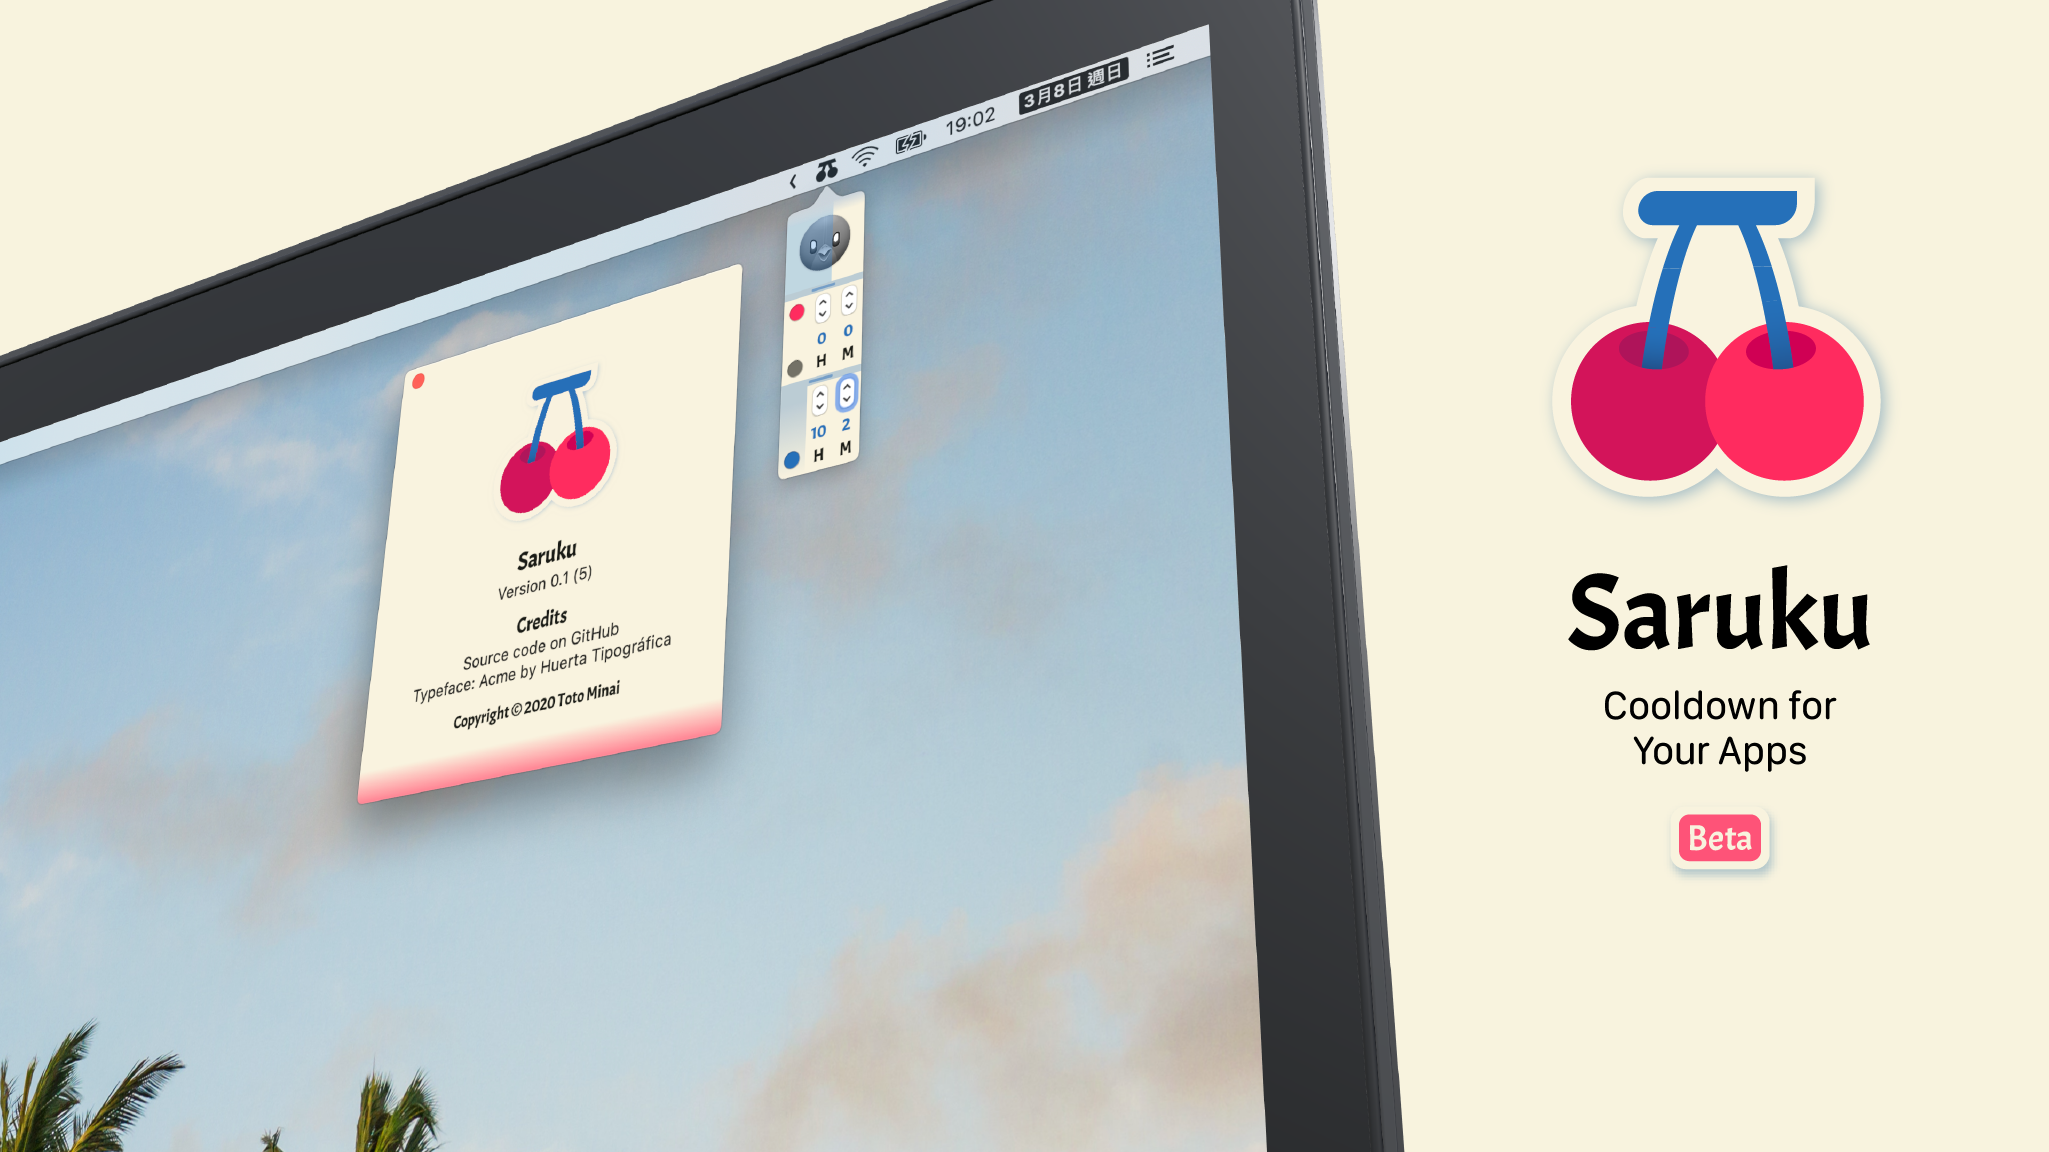
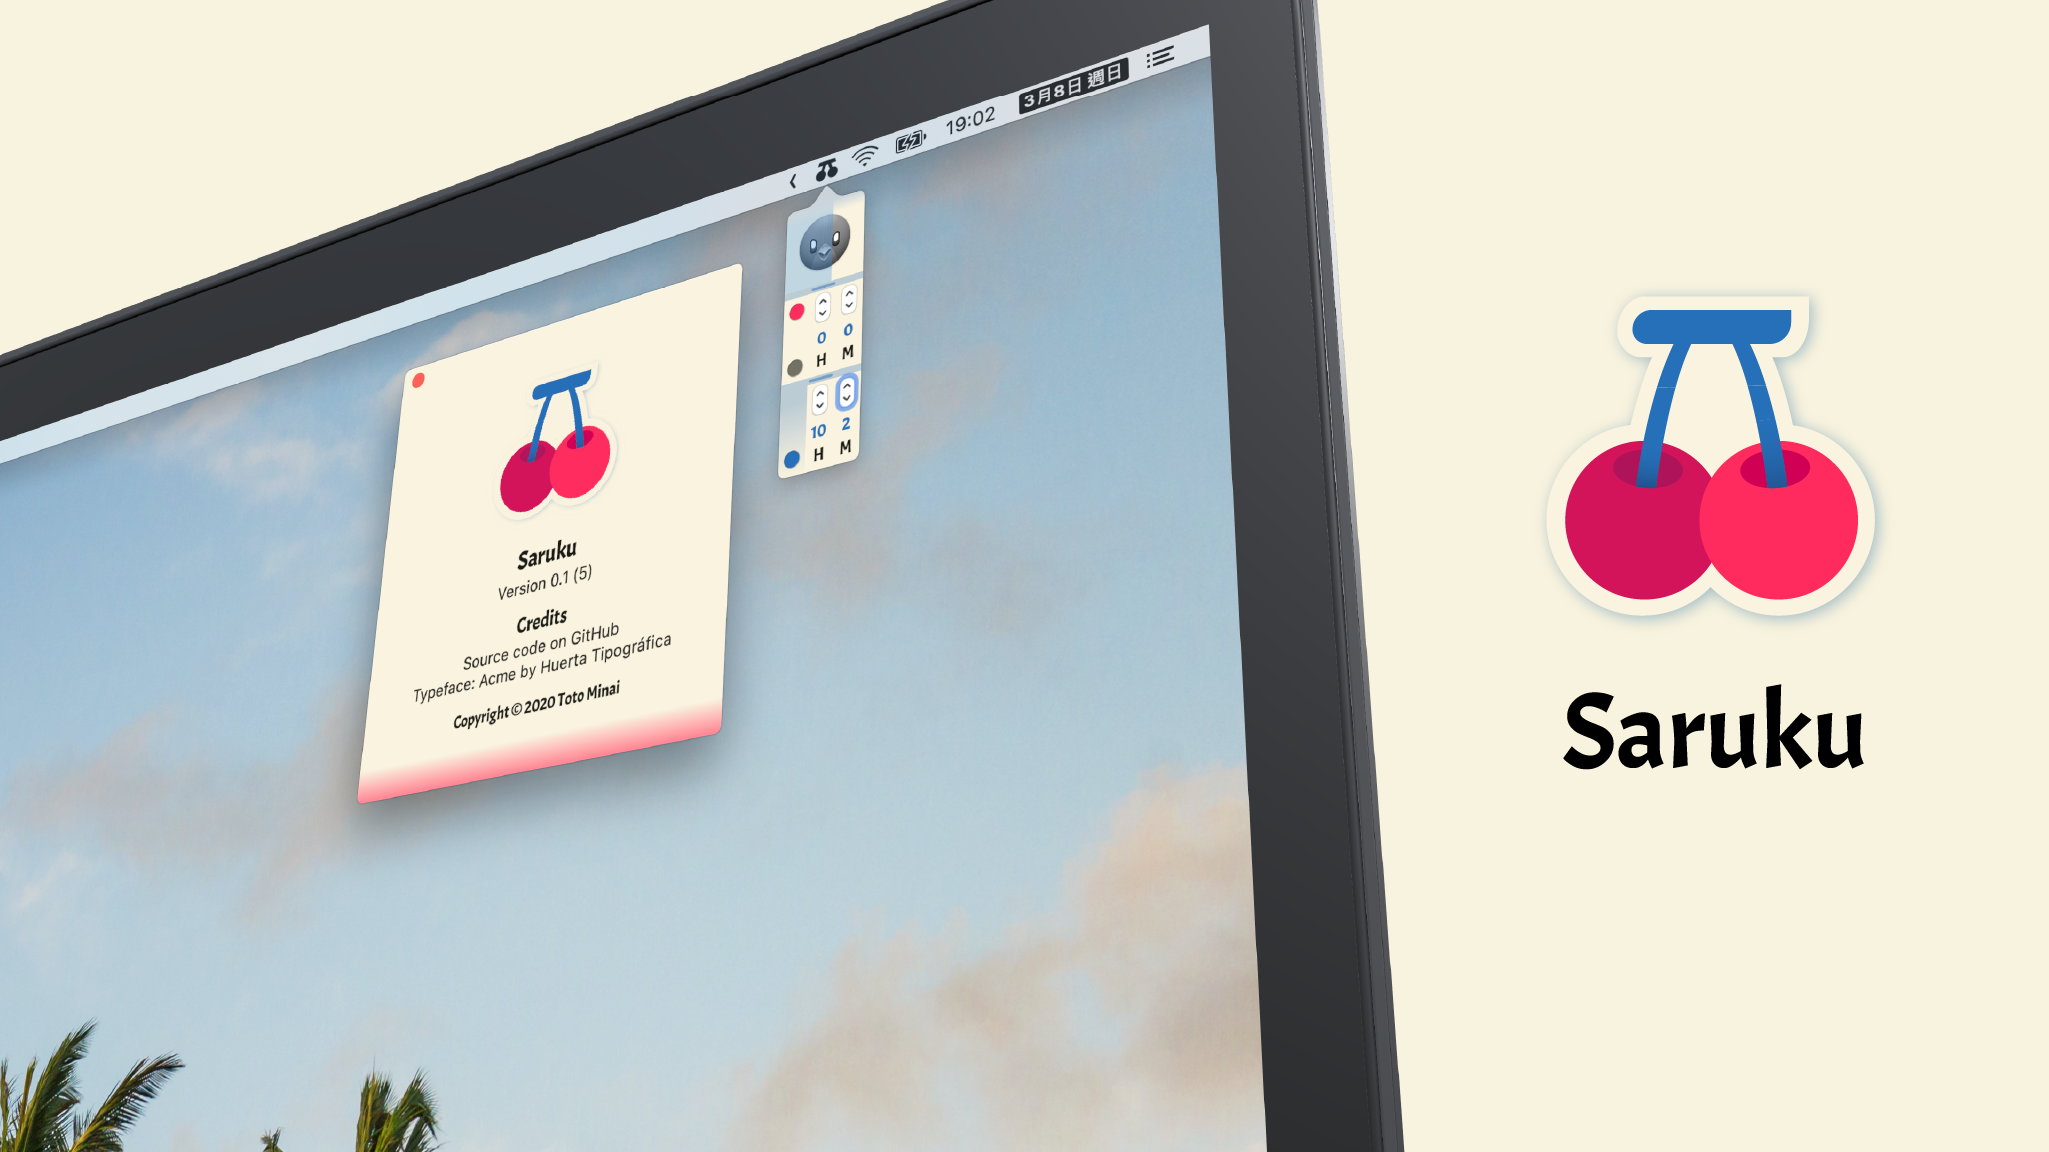
Update cover

diff --git a/README.md b/README.md
@@ -1,7 +1,7 @@
 # Saruku (Still developing!)
 
 <p style="text-align: center">
-    <img style="display: block; margin: 0 auto" src="https://github.com/bufhdy/Saruku/raw/master/img/saruku-cover.png" alt="saruku-icon" />
+    <img src="https://github.com/bufhdy/Saruku/raw/master/img/saruku-cover.png" alt="saruku-icon" />
 </p>
 
 Saruku is a macOS menu bar app that provides cool down time for SNS apps to help you focus on your current work.
